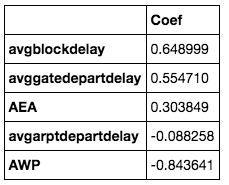
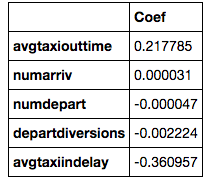
fixed

diff --git a/_posts/2016-7-28-AirportDelays .md b/_posts/2016-7-28-AirportDelays .md
@@ -59,16 +59,22 @@ The silhouette scores were 0.315 and 0.566, respectively which shows an improvem
 ![functions](/images/airport/dendrogram2.png)
 
 **Logistic Regression**
-Finally, I ran a logistic regression to be able to determine which features are most correlated with delays. I created a binary feature if the avg gate arrival delay was 
-less than or greater than the median delay. After running the logistic regression, the features most correlated with delays are: Avg Block Delay, Airport Departure Delay, Block Delay, and Gate Depart Delay.
-The accuracy score for this model was 0.862.
+I also ran a logistic regression on the clustered data to be able to determine which features are most correlated with delays. I created a binary feature if the avg gate arrival delay was 
+less than or greater than the median delay. After running the logistic regression, the single largest contributor to delays is avg taxi out time.
+The accuracy score for this model was 0.872.
 
 ![functions](/images/airport/logfeatures.png)
 
+**Random Forest
+Finally, I ran a random forest classifier with the same data as above to see if there were any differences. The most important features were size of airport
+(number of departures and arrivals) and also taxi time which is consistent with above. The accuracy score for this model 0.941.
+
+![functions](/images/airport/forestfeatures.png)
+
 **Recommendations**
-First,Take a closer look at the AAL region to determine what additional conditions were present that caused the dramatic increase in on-time percentage.
+First, take a closer look at the AAL region to determine what additional conditions were present that caused the dramatic increase in on-time percentage.
 Secondly, ANM, for being the region with the most departures, had the highest consistent OT%. What conditions were present here to maintain that rate?
-Finally, According to the logistic regression, block delay is the single largest contributor to gate arrival delays. How can we decrease this moving forward?
+Finally, taxi delays seem to be the largest contributors to overall delays without respect to airport size. A deeper investigation should be condiucted into root causes and what can be done to minimize delay here.
 
 
 
